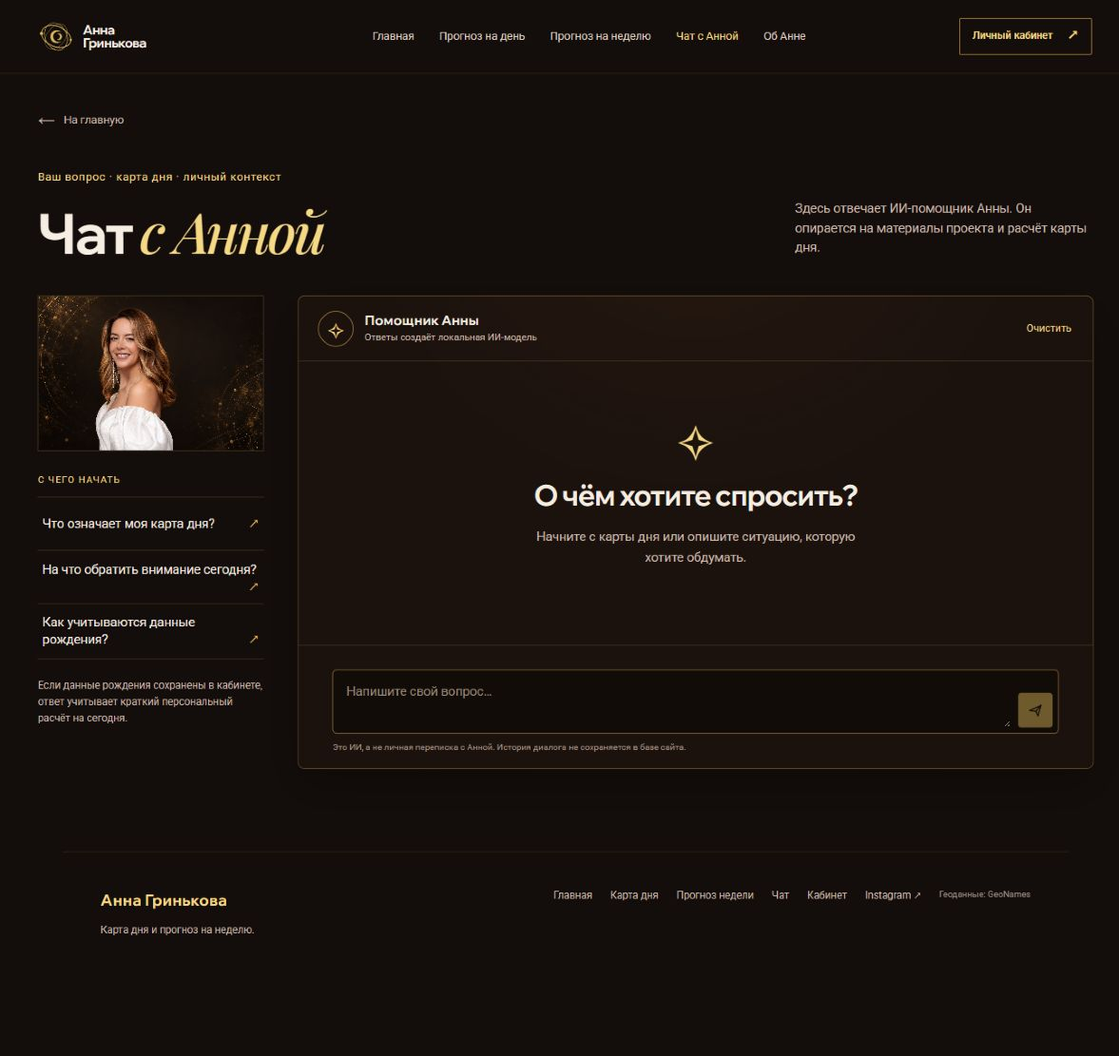
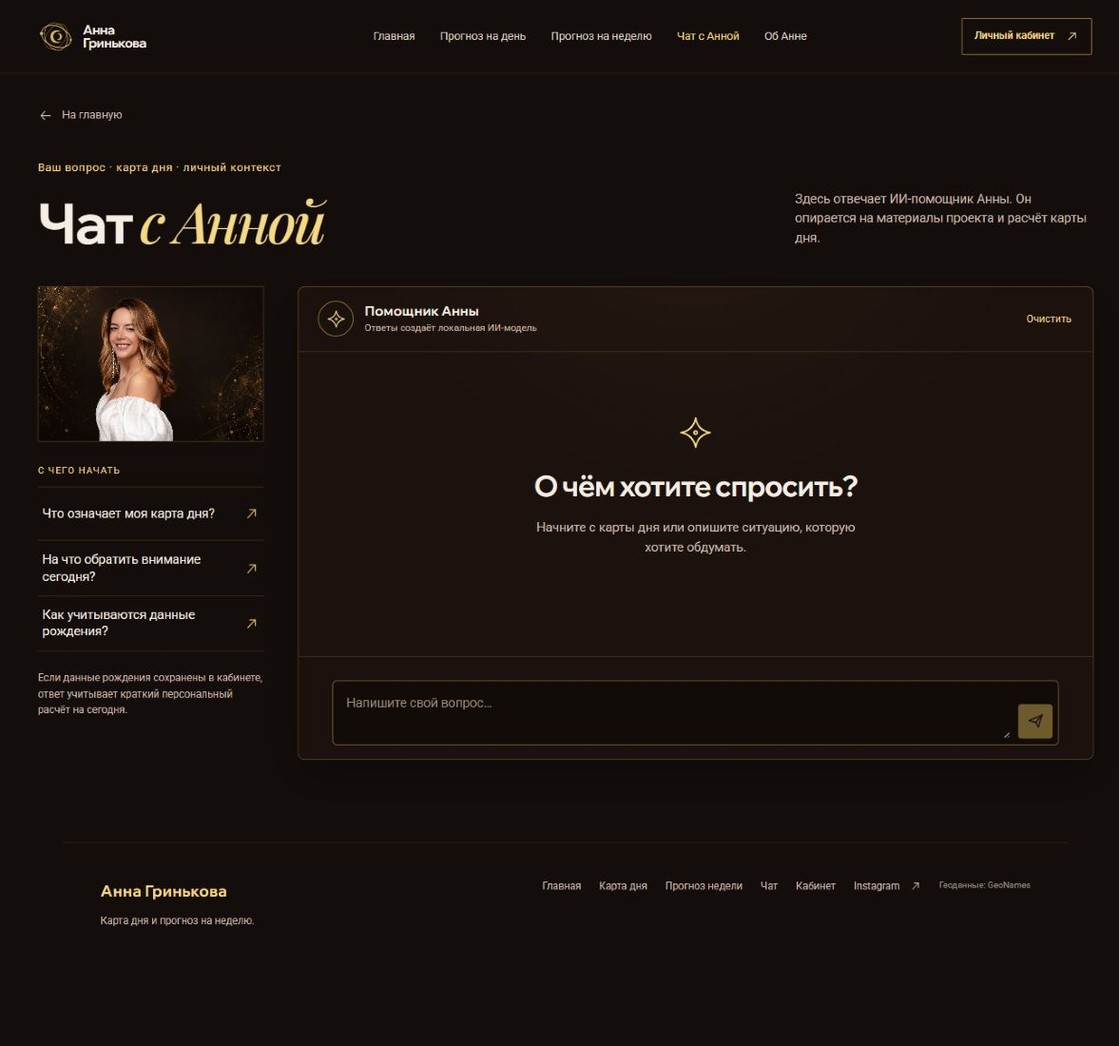
Polish chat card animation and site iconography

diff --git a/prototype/index.html b/prototype/index.html
@@ -12,11 +12,12 @@
     <link rel="stylesheet" href="./styles.css" />
     <link rel="stylesheet" href="./motion-layout.css?v=1" />
     <link rel="stylesheet" href="./birth-time.css?v=1" />
-    <link rel="stylesheet" href="./chat.css?v=3" />
+    <link rel="stylesheet" href="./chat.css?v=6" />
+    <link rel="stylesheet" href="./polish.css?v=4" />
     <script src="./birth-ui.js?v=1" defer></script>
     <script src="./birth-time.js?v=1" defer></script>
     <script src="./app.js?v=13" defer></script>
-    <script src="./chat.js?v=2" defer></script>
+    <script src="./chat.js?v=5" defer></script>
   </head>
   <body>
     <div class="site-shell">
@@ -126,22 +127,22 @@
           <section class="chat-hero section-wrap"><a class="back-link" href="#home"><span aria-hidden="true">←</span> На главную</a><div class="chat-hero-head"><div><p class="forecast-kicker">Ваш вопрос · карта дня · личный контекст</p><h1>Чат <em>с Анной</em></h1></div><p>Здесь отвечает ИИ-помощник Анны. Он опирается на материалы проекта и расчёт карты дня.</p></div></section>
           <section class="chat-layout section-wrap" aria-label="Чат с ИИ-помощником Анны">
             <aside class="chat-aside"><div class="chat-aside-portrait"><img src="./assets/anna-horizontal-branded.jpg" alt="Портрет Анны Гриньковой" /></div><p class="chat-aside-caption">С чего начать</p><div class="chat-prompt-list"><button type="button" data-chat-prompt="Что означает моя карта дня?">Что означает моя карта дня?</button><button type="button" data-chat-prompt="На что обратить внимание сегодня?">На что обратить внимание сегодня?</button><button type="button" data-chat-prompt="Как учитываются данные рождения?">Как учитываются данные рождения?</button></div><p class="chat-aside-note">Если данные рождения сохранены в кабинете, ответ учитывает краткий персональный расчёт на сегодня.</p></aside>
-            <div class="chat-panel"><div class="chat-panel-head"><span class="chat-panel-mark" aria-hidden="true">✧</span><div><strong>Помощник Анны</strong><span>Ответы создаёт локальная ИИ-модель</span></div><button type="button" class="chat-clear" id="chat-clear" aria-label="Очистить диалог">Очистить</button></div><div class="chat-transcript" id="chat-transcript" role="log" aria-label="Сообщения чата" aria-live="polite"><div class="chat-empty" id="chat-empty"><span class="chat-empty-mark" aria-hidden="true">✧</span><h2>О чём хотите спросить?</h2><p>Начните с карты дня или опишите ситуацию, которую хотите обдумать.</p><div class="chat-mobile-prompts"><button type="button" data-chat-prompt="Что означает моя карта дня?">Моя карта дня</button><button type="button" data-chat-prompt="На что обратить внимание сегодня?">Фокус на сегодня</button></div></div></div><div class="chat-composer"><p class="chat-status" id="chat-status" role="status"></p><form id="chat-form"><label class="visually-hidden" for="chat-input">Ваш вопрос</label><textarea id="chat-input" name="message" rows="2" maxlength="600" placeholder="Напишите свой вопрос…" required></textarea><button type="submit" id="chat-send" aria-label="Отправить сообщение"><svg viewBox="0 0 24 24" fill="none" aria-hidden="true"><path d="m4 12 15-7-4 14-3-6-8-1Z"/><path d="m12 13 7-8"/></svg></button><button type="button" id="chat-stop" aria-label="Остановить ответ" hidden>Стоп</button></form><p class="chat-disclosure">Это ИИ, а не личная переписка с Анной. История диалога не сохраняется в базе сайта.</p></div></div>
+            <div class="chat-panel"><div class="chat-panel-head"><span class="chat-panel-mark" aria-hidden="true"><svg class="ui-icon"><use href="./assets/icons.svg#star" /></svg></span><div><strong>Помощник Анны</strong><span>Ответы создаёт локальная ИИ-модель</span></div><button type="button" class="chat-clear" id="chat-clear" aria-label="Очистить диалог">Очистить</button></div><div class="chat-transcript" id="chat-transcript" role="log" aria-label="Сообщения чата" aria-live="polite"><div class="chat-empty" id="chat-empty"><span class="chat-empty-mark" aria-hidden="true"><svg class="ui-icon"><use href="./assets/icons.svg#star" /></svg></span><h2>О чём хотите спросить?</h2><p>Начните с карты дня или опишите ситуацию, которую хотите обдумать.</p><div class="chat-mobile-prompts"><button type="button" data-chat-prompt="Что означает моя карта дня?">Моя карта дня</button><button type="button" data-chat-prompt="На что обратить внимание сегодня?">Фокус на сегодня</button></div></div></div><div class="chat-composer"><p class="chat-status" id="chat-status" role="status"></p><form id="chat-form"><label class="visually-hidden" for="chat-input">Ваш вопрос</label><textarea id="chat-input" name="message" rows="2" maxlength="600" placeholder="Напишите свой вопрос…" required></textarea><button type="submit" id="chat-send" aria-label="Отправить сообщение"><svg class="ui-icon" aria-hidden="true"><use href="./assets/icons.svg#send" /></svg></button><button type="button" id="chat-stop" aria-label="Остановить ответ" hidden>Стоп</button></form></div></div>
           </section>
         </div>
         <div class="route" id="route-account" data-page="account" hidden>
           <section class="simple-hero section-wrap"><p class="forecast-kicker">Личный кабинет</p><h1>Ваше <em>пространство</em></h1><p>Сохраните данные рождения и управляйте безопасностью аккаунта.</p></section>
           <section class="account-layout section-wrap" aria-label="Данные личного кабинета">
             <div class="account-card"><span class="subtle-tag">Профиль</span><h2 id="account-heading">Войдите в кабинет</h2><p id="account-email">Создайте аккаунт, чтобы подготовить профиль для персонального прогноза.</p><div class="account-actions"><button class="button button-gold" type="button" id="account-login" data-open-signup>Войти или создать аккаунт <span aria-hidden="true">↗</span></button><button class="quiet-button" type="button" id="account-logout" hidden>Выйти</button></div></div>
-            <div class="account-card"><span class="subtle-tag">Безопасность</span><h2>Пароль и почта</h2><p id="email-status">Войдите, чтобы управлять аккаунтом.</p><button class="quiet-button" type="button" id="account-change-password" hidden>Сменить пароль ↗</button><button class="quiet-button" type="button" id="account-verify-email" hidden>Подтвердить почту ↗</button><p class="form-status" id="security-message" role="status"></p></div>
+            <div class="account-card"><span class="subtle-tag">Безопасность</span><h2>Пароль и почта</h2><p id="email-status">Войдите, чтобы управлять аккаунтом.</p><button class="quiet-button" type="button" id="account-change-password" hidden>Сменить пароль</button><button class="quiet-button" type="button" id="account-verify-email" hidden>Подтвердить почту</button><p class="form-status" id="security-message" role="status"></p></div>
             <div class="account-card birth-card" id="birth-card" hidden><span class="subtle-tag">Для персонального расчёта</span><h2>Данные рождения</h2><p>Укажите дату, точное местное время и город рождения. Эти данные доступны только в вашем кабинете.</p><form id="birth-form" class="birth-form"><div class="birth-field birth-date-field"><label for="birth-date-display">Дата рождения</label><div class="birth-date-control"><input type="text" id="birth-date-display" inputmode="numeric" autocomplete="bday" maxlength="10" placeholder="ДД.ММ.ГГГГ" aria-controls="birth-calendar" aria-expanded="false" required /><button type="button" id="birth-date-toggle" class="birth-date-toggle" aria-label="Выбрать дату рождения" aria-controls="birth-calendar" aria-expanded="false"><svg viewBox="0 0 24 24" fill="none" aria-hidden="true"><rect x="3" y="5" width="18" height="16" rx="2"/><path d="M7 3v4M17 3v4M3 10h18"/></svg></button></div><input type="hidden" name="birthDate" id="birth-date-value" /><div class="birth-calendar" id="birth-calendar" role="group" aria-label="Календарь даты рождения" hidden><div class="birth-calendar-heading"><span>Дата рождения</span><button type="button" id="birth-calendar-close" aria-label="Закрыть календарь">×</button></div><div class="birth-calendar-controls"><button type="button" id="birth-calendar-prev" aria-label="Предыдущий месяц">‹</button><select id="birth-calendar-month" aria-label="Месяц рождения"></select><select id="birth-calendar-year" aria-label="Год рождения"></select><button type="button" id="birth-calendar-next" aria-label="Следующий месяц">›</button></div><div class="birth-calendar-weekdays" aria-hidden="true"><span>Пн</span><span>Вт</span><span>Ср</span><span>Чт</span><span>Пт</span><span>Сб</span><span>Вс</span></div><div class="birth-calendar-days" id="birth-calendar-days" role="grid" aria-label="Дни месяца"></div><p class="birth-calendar-hint">Выберите день или введите дату вручную.</p></div></div><div class="birth-field birth-time-field"><label for="birth-time-display">Время рождения</label><div class="birth-time-control"><input type="text" id="birth-time-display" inputmode="numeric" autocomplete="off" maxlength="5" placeholder="ЧЧ:ММ" aria-controls="birth-time-picker" aria-expanded="false" required /><button type="button" id="birth-time-toggle" class="birth-time-toggle" aria-label="Выбрать время рождения" aria-controls="birth-time-picker" aria-expanded="false"><svg viewBox="0 0 24 24" fill="none" aria-hidden="true"><circle cx="12" cy="12" r="9"/><path d="M12 7v5l3 2"/></svg></button></div><input type="hidden" name="birthTime" id="birth-time-value" /><div class="birth-time-picker" id="birth-time-picker" role="group" aria-label="Выбор времени рождения" hidden><div class="birth-time-heading"><span>Время рождения</span><button type="button" id="birth-time-close" aria-label="Закрыть выбор времени">×</button></div><div class="birth-time-columns"><div class="birth-time-column"><span id="birth-time-hours-label">Часы</span><div class="birth-time-list" id="birth-time-hours" role="listbox" aria-labelledby="birth-time-hours-label"></div></div><div class="birth-time-column"><span id="birth-time-minutes-label">Минуты</span><div class="birth-time-list" id="birth-time-minutes" role="listbox" aria-labelledby="birth-time-minutes-label"></div></div></div><button type="button" id="birth-time-confirm" class="birth-time-confirm" disabled>Выбрать время</button><p class="birth-time-hint">Укажите местное время рождения.</p></div></div><div class="birth-field city-field"><label for="birth-place">Город рождения</label><input type="text" name="birthPlace" id="birth-place" role="combobox" aria-autocomplete="list" aria-controls="city-suggestions" aria-expanded="false" autocomplete="off" maxlength="120" placeholder="Начните вводить город" required /><div id="city-suggestions" class="city-suggestions" role="listbox" aria-label="Подсказки городов" hidden></div></div><input type="hidden" name="birthCityId" id="birth-city-id" /><details class="birth-manual"><summary>Моего города нет в списке</summary><p>Укажите координаты и часовой пояс IANA. Для редкого часа перевода часов может понадобиться смещение UTC в минутах.</p><label>Широта<input type="number" name="birthLatitude" min="-90" max="90" step="any" placeholder="55.75" /></label><label>Долгота<input type="number" name="birthLongitude" min="-180" max="180" step="any" placeholder="37.62" /></label><label>Часовой пояс<input type="text" name="birthTimeZone" placeholder="Europe/Moscow" /></label><label>Смещение UTC, минуты<input type="number" name="birthUtcOffsetMinutes" min="-840" max="840" placeholder="Только при переводе часов" /></label></details><button class="button button-gold" type="submit">Сохранить <span aria-hidden="true">↗</span></button></form><p class="form-status" id="birth-message" role="status"></p></div>
           </section>
         </div>
       </main>
 
-      <footer class="site-footer section-wrap"><div><span class="footer-brand">Анна Гринькова</span><p>Карта дня и прогноз на неделю.</p></div><div class="footer-links"><a href="#home">Главная</a><a href="#day">Карта дня</a><a href="#week">Прогноз недели</a><a href="#chat">Чат</a><a href="#account">Кабинет</a><a href="https://www.instagram.com/anna__grinkova" target="_blank" rel="noopener noreferrer">Instagram ↗</a><a class="footer-data-credit" href="https://www.geonames.org/" target="_blank" rel="noopener noreferrer" aria-label="Географические данные: GeoNames">Геоданные: GeoNames</a></div></footer>
+      <footer class="site-footer section-wrap"><div><span class="footer-brand">Анна Гринькова</span><p>Карта дня и прогноз на неделю.</p></div><div class="footer-links"><a href="#home">Главная</a><a href="#day">Карта дня</a><a href="#week">Прогноз недели</a><a href="#chat">Чат</a><a href="#account">Кабинет</a><a href="https://www.instagram.com/anna__grinkova" target="_blank" rel="noopener noreferrer">Instagram</a><a class="footer-data-credit" href="https://www.geonames.org/" target="_blank" rel="noopener noreferrer" aria-label="Географические данные: GeoNames">Геоданные: GeoNames</a></div></footer>
 
-      <nav class="mobile-nav" aria-label="Мобильная навигация"><a href="#home" data-mobile-nav="home"><svg viewBox="0 0 24 24" fill="none" aria-hidden="true"><path d="m3 10 9-7 9 7v10H3V10Z"/><path d="M9 20v-6h6v6"/></svg><span>Главная</span></a><a href="#day" data-mobile-nav="day"><svg viewBox="0 0 24 24" fill="none" aria-hidden="true"><circle cx="12" cy="12" r="8"/><path d="M12 7v5l3 2"/></svg><span>День</span></a><a href="#week" data-mobile-nav="week"><svg viewBox="0 0 24 24" fill="none" aria-hidden="true"><rect x="3" y="5" width="18" height="16" rx="2"/><path d="M7 3v4M17 3v4M3 10h18"/></svg><span>Неделя</span></a><a href="#chat" data-mobile-nav="chat"><svg viewBox="0 0 24 24" fill="none" aria-hidden="true"><path d="M4 5h16v12H9l-5 4V5Z"/><path d="M8 10h8M8 13h5"/></svg><span>Чат</span></a><a href="#account" data-mobile-nav="account"><svg viewBox="0 0 24 24" fill="none" aria-hidden="true"><circle cx="12" cy="8" r="4"/><path d="M4 21c0-5 3-7 8-7s8 2 8 7"/></svg><span>Кабинет</span></a></nav>
+      <nav class="mobile-nav" aria-label="Мобильная навигация"><a href="#home" data-mobile-nav="home"><svg class="ui-icon" aria-hidden="true"><use href="./assets/icons.svg#home" /></svg><span>Главная</span></a><a href="#day" data-mobile-nav="day"><svg class="ui-icon" aria-hidden="true"><use href="./assets/icons.svg#day" /></svg><span>День</span></a><a href="#week" data-mobile-nav="week"><svg class="ui-icon" aria-hidden="true"><use href="./assets/icons.svg#week" /></svg><span>Неделя</span></a><a href="#chat" data-mobile-nav="chat"><svg class="ui-icon" aria-hidden="true"><use href="./assets/icons.svg#chat" /></svg><span>Чат</span></a><a href="#account" data-mobile-nav="account"><svg class="ui-icon" aria-hidden="true"><use href="./assets/icons.svg#user" /></svg><span>Кабинет</span></a></nav>
     </div>
 
     <div class="dialog-backdrop" id="signup-dialog" hidden><section class="signup-dialog" role="dialog" aria-modal="true" aria-labelledby="signup-title"><button class="dialog-close" type="button" data-close-signup aria-label="Закрыть окно">×</button><p class="dialog-overline">Личный кабинет</p><h2 id="signup-title">Войти в кабинет</h2><p id="auth-description">Введите email и пароль.</p><form id="signup-form"><div class="auth-field" id="email-field"><label for="signup-email">Ваш email</label><input id="signup-email" name="email" type="email" autocomplete="email" placeholder="name@example.com" required /></div><div class="auth-field" id="password-field"><label for="signup-password">Пароль</label><div class="password-control"><input id="signup-password" name="password" type="password" autocomplete="current-password" maxlength="128" required /><button class="password-toggle" type="button" data-toggle-password="signup-password" aria-label="Показать пароль" aria-pressed="false"><svg viewBox="0 0 24 24" aria-hidden="true"><path d="M2 12s3.5-6 10-6 10 6 10 6-3.5 6-10 6S2 12 2 12Z"/><circle cx="12" cy="12" r="3"/></svg></button></div><ul class="password-rules" id="password-rules" aria-label="Требования к паролю" hidden><li data-password-rule="length">Не менее 8 символов</li><li data-password-rule="uppercase">Заглавная буква</li><li data-password-rule="digit">Цифра</li><li data-password-rule="special">Спецсимвол</li></ul></div><div class="auth-field" id="confirm-field" hidden><label for="signup-confirm">Подтвердите пароль</label><div class="password-control"><input id="signup-confirm" name="confirmPassword" type="password" autocomplete="new-password" minlength="8" maxlength="128" /><button class="password-toggle" type="button" data-toggle-password="signup-confirm" aria-label="Показать подтверждение пароля" aria-pressed="false"><svg viewBox="0 0 24 24" aria-hidden="true"><path d="M2 12s3.5-6 10-6 10 6 10 6-3.5 6-10 6S2 12 2 12Z"/><circle cx="12" cy="12" r="3"/></svg></button></div></div><div class="auth-field" id="code-field" hidden><label for="signup-code">Код из письма</label><input id="signup-code" name="code" type="text" inputmode="numeric" autocomplete="one-time-code" pattern="[0-9]{6}" maxlength="6" placeholder="000000" /></div><button class="button button-gold" id="auth-submit" type="submit">Войти <span aria-hidden="true">↗</span></button></form><div class="auth-links"><button class="auth-switch" id="auth-switch" type="button">Создать аккаунт</button><button class="auth-switch" id="auth-forgot" type="button">Забыли пароль?</button><button class="auth-switch" id="auth-resend" type="button" hidden>Отправить код снова</button></div><p class="form-status" id="form-message" role="status"></p></section></div>

diff --git a/prototype/polish.css b/prototype/polish.css
@@ -1,0 +1,99 @@
+/* One engraved line language for navigation, actions and card marks. */
+.ui-icon { display: inline-block; width: 21px; height: 21px; flex: none; fill: none; stroke: currentColor; stroke-width: 1.55; stroke-linecap: round; stroke-linejoin: round; }
+.mobile-nav .ui-icon { width: 24px; height: 24px; stroke-width: 1.5; }
+.mobile-nav a { min-width: 0; }
+.mobile-nav a[aria-current="page"] .ui-icon { filter: drop-shadow(0 0 6px rgba(245,217,133,.35)); }
+.chat-panel-mark .ui-icon { width: 26px; height: 26px; stroke-width: 1.25; }
+.chat-empty-mark .ui-icon { width: 47px; height: 47px; stroke-width: 1.1; }
+#chat-send .ui-icon { width: 23px; height: 23px; stroke-width: 1.6; }
+
+.button > span[aria-hidden="true"],
+.header-entry > span[aria-hidden="true"],
+.text-link > span[aria-hidden="true"],
+.inline-action > span[aria-hidden="true"],
+.week-feature-cta > span[aria-hidden="true"],
+.chat-invite-action > span[aria-hidden="true"] { display: none; }
+.button::after,
+.header-entry::after,
+.text-link::after,
+.inline-action::after,
+.week-feature-cta::after,
+.chat-invite-action::after,
+.chat-prompt-list button::after,
+.week-arrow::after,
+.back-link::before {
+  content: "";
+  display: inline-block;
+  width: 18px;
+  height: 18px;
+  flex: none;
+  background: currentColor;
+  -webkit-mask: url('./assets/icon-arrow-up-right.svg') center / contain no-repeat;
+  mask: url('./assets/icon-arrow-up-right.svg') center / contain no-repeat;
+}
+.header-entry { display: inline-flex; align-items: center; gap: 14px; }
+.header-entry::after { width: 16px; height: 16px; }
+@media (max-width: 980px) { .header-entry { display: none; } }
+.text-link,.inline-action { display: inline-flex; align-items: center; gap: 10px; }
+.text-link::after,.inline-action::after { width: 16px; height: 16px; }
+.week-feature-cta { align-items: center; }
+.week-arrow { font-size: 0; }
+.week-arrow::after { width: 27px; height: 27px; }
+.chat-invite-action { display: inline-flex; gap: 10px; align-items: center; }
+.chat-invite-action::after { width: 16px; height: 16px; }
+.chat-prompt-list button { display: flex; align-items: center; justify-content: space-between; gap: 15px; }
+.chat-prompt-list button::after { float: none; width: 19px; height: 19px; font-size: 0; }
+.back-link { gap: 11px; }
+.back-link > span[aria-hidden="true"] { display: none; }
+.back-link::before { width: 20px; height: 20px; -webkit-mask-image: url('./assets/icon-arrow-left.svg'); mask-image: url('./assets/icon-arrow-left.svg'); }
+.footer-links a[href*="instagram.com"] { display: inline-flex; align-items: center; gap: 4px; }
+.footer-links a[href*="instagram.com"]::after,
+#account-change-password::after,
+#account-verify-email::after { content: ""; display: inline-block; width: 15px; height: 15px; margin-left: 8px; vertical-align: -2px; background: currentColor; -webkit-mask: url('./assets/icon-arrow-up-right.svg') center / contain no-repeat; mask: url('./assets/icon-arrow-up-right.svg') center / contain no-repeat; }
+.dialog-close,.birth-calendar-heading button,.birth-time-heading button { display: grid; place-items: center; width: 36px; height: 36px; padding: 0; font-size: 0 !important; }
+.dialog-close::before,.birth-calendar-heading button::before,.birth-time-heading button::before { content: ""; display: block; width: 19px; height: 19px; background: currentColor; -webkit-mask: url('./assets/icon-close.svg') center / contain no-repeat; mask: url('./assets/icon-close.svg') center / contain no-repeat; }
+.birth-calendar-controls > button { display: grid; place-items: center; font-size: 0 !important; }
+.birth-calendar-controls > button::before { content: ""; display: block; width: 18px; height: 18px; background: currentColor; -webkit-mask: url('./assets/icon-chevron-left.svg') center / contain no-repeat; mask: url('./assets/icon-chevron-left.svg') center / contain no-repeat; }
+#birth-calendar-next::before { -webkit-mask-image: url('./assets/icon-chevron-right.svg'); mask-image: url('./assets/icon-chevron-right.svg'); }
+
+.draw-card-star,.draw-card-mark,.mini-card-art { font-size: 0; }
+.draw-card-star::before,.draw-card-mark::before,.mini-card-art::before {
+  content: "";
+  display: block;
+  width: 100%;
+  height: 100%;
+  background: currentColor;
+  -webkit-mask: url('./assets/icon-star.svg') center / contain no-repeat;
+  mask: url('./assets/icon-star.svg') center / contain no-repeat;
+}
+.draw-card-star { width: 16px; height: 16px; }
+.draw-card-mark { display: block; width: 74px; height: 74px; }
+.mini-card-art { display: grid; place-items: center; }
+.mini-card-art::before { width: 70%; height: 70%; }
+.birth-date-toggle svg,.birth-time-toggle svg,.password-toggle svg { stroke-linecap: round; stroke-linejoin: round; }
+
+/* Align cards and calls to action to the same mobile inset. */
+.account-card { min-width: 0; }
+@media (max-width: 760px) {
+  .site-header { padding-inline: 20px; }
+  .account-layout { min-width: 0; }
+  .account-card { width: 100%; padding: 26px 22px; }
+  .account-card h2 { overflow-wrap: anywhere; }
+  .account-actions { min-width: 0; }
+  .account-actions .button { width: 100%; min-width: 0; white-space: normal; text-align: left; gap: 14px; }
+  .account-actions .button::after { margin-left: auto; }
+  .birth-form { min-width: 0; }
+  .chat-invite { align-items: center; }
+  .chat-invite-copy { min-width: 0; }
+  .chat-invite-copy strong { line-height: 1.16; }
+}
+@media (max-width: 370px) {
+  .simple-hero h1 { font-size: clamp(37px, 11vw, 43px); }
+  .chat-transcript { overflow-x: hidden; }
+  .chat-message-thinking { max-width: 100%; }
+  .chat-thinking-stage { flex-direction: column; align-items: flex-start; gap: 0; }
+  .chat-thinking-cards { transform: scale(.75); transform-origin: left top; width: 148px; height: 64px; }
+  .chat-thinking-line { font-size: 14px; white-space: normal; }
+  .mobile-nav { padding-inline: 4px; }
+  .mobile-nav a { font-size: 9px; }
+}

diff --git a/prototype/chat.js b/prototype/chat.js
@@ -12,6 +12,15 @@ let chatRequest = 0;
 let chatSlowTimer;
 
 function scrollChatToEnd() { chatTranscript.scrollTop = chatTranscript.scrollHeight; }
+function chatIcon(name) {
+  const svg = document.createElementNS('http://www.w3.org/2000/svg', 'svg');
+  svg.classList.add('ui-icon');
+  svg.setAttribute('aria-hidden', 'true');
+  const use = document.createElementNS('http://www.w3.org/2000/svg', 'use');
+  use.setAttribute('href', `./assets/icons.svg#${name}`);
+  svg.append(use);
+  return svg;
+}
 
 function chatMessage(role, content, context = null) {
   const article = document.createElement('article');
@@ -28,10 +37,12 @@ function chatMessage(role, content, context = null) {
     actions.className = 'chat-message-actions';
     const copy = document.createElement('button');
     copy.type = 'button';
-    copy.textContent = 'Скопировать';
+    const copyLabel = document.createElement('span');
+    copyLabel.textContent = 'Скопировать';
+    copy.append(chatIcon('copy'), copyLabel);
     copy.addEventListener('click', async () => {
-      try { await navigator.clipboard.writeText(content); copy.textContent = 'Скопировано'; }
-      catch { copy.textContent = 'Не удалось скопировать'; }
+      try { await navigator.clipboard.writeText(content); copyLabel.textContent = 'Скопировано'; }
+      catch { copyLabel.textContent = 'Не удалось скопировать'; }
     });
     actions.append(copy);
     if (context) {
@@ -49,11 +60,34 @@ function chatMessage(role, content, context = null) {
 
 function thinkingMessage() {
   const article = chatMessage('assistant', '');
+  article.classList.add('chat-message-thinking');
+  const stage = document.createElement('div');
+  stage.className = 'chat-thinking-stage';
+  stage.setAttribute('role', 'status');
+  stage.setAttribute('aria-label', 'Помощник печатает, карты перебираются');
+  const cards = document.createElement('span');
+  cards.className = 'chat-thinking-cards';
+  cards.setAttribute('aria-hidden', 'true');
+  for (let index = 0; index < 5; index += 1) {
+    const card = document.createElement('i');
+    const star = document.createElementNS('http://www.w3.org/2000/svg', 'svg');
+    star.setAttribute('viewBox', '0 0 24 24');
+    const mark = document.createElementNS('http://www.w3.org/2000/svg', 'use');
+    mark.setAttribute('href', './assets/icons.svg#star');
+    star.append(mark);
+    card.append(star);
+    cards.append(card);
+  }
+  const line = document.createElement('span');
+  line.className = 'chat-thinking-line';
+  line.textContent = 'Помощник печатает';
   const dots = document.createElement('span');
   dots.className = 'chat-thinking-dots';
-  dots.setAttribute('aria-label', 'Готовим ответ');
-  dots.innerHTML = '<i></i><i></i><i></i>';
-  article.querySelector('p').replaceWith(dots);
+  dots.setAttribute('aria-hidden', 'true');
+  for (let index = 0; index < 3; index += 1) dots.append(document.createElement('i'));
+  line.append(dots);
+  stage.append(cards, line);
+  article.querySelector('p').replaceWith(stage);
   return article;
 }
 
@@ -64,6 +98,7 @@ async function sendChat(message, existingUserMessage = false) {
   const text = message.trim();
   if (!text || text.length > 600) return;
   const request = ++chatRequest;
+  const started = performance.now();
   chatEmpty.hidden = true;
   if (!existingUserMessage) chatMessage('user', text);
   chatInput.value = '';
@@ -71,7 +106,7 @@ async function sendChat(message, existingUserMessage = false) {
   const controller = new AbortController();
   chatAbort = controller;
   chatStop.hidden = false;
-  chatStatus.textContent = 'Готовим ответ…';
+  chatStatus.textContent = '';
   chatSlowTimer = window.setTimeout(() => { if (request === chatRequest) chatStatus.textContent = 'Модель отвечает дольше обычного…'; }, 2500);
   updateChatSend();
   try {
@@ -84,7 +119,10 @@ async function sendChat(message, existingUserMessage = false) {
     });
     const data = await response.json();
     if (!response.ok) throw new Error(data.message || 'Ответ сейчас недоступен.');
+    const remaining = window.matchMedia('(prefers-reduced-motion: reduce)').matches ? 0 : 1100 - (performance.now() - started);
+    if (remaining > 0) await new Promise((resolve) => window.setTimeout(resolve, remaining));
     if (request !== chatRequest) return;
+    if (controller.signal.aborted) throw new DOMException('Ответ остановлен', 'AbortError');
     thinking.remove();
     chatMessage('assistant', data.answer, data.context);
     chatHistory.push({ role: 'user', content: text }, { role: 'assistant', content: data.answer });
@@ -100,6 +138,7 @@ async function sendChat(message, existingUserMessage = false) {
     const retry = document.createElement('button');
     retry.type = 'button';
     retry.textContent = 'Повторить';
+    retry.prepend(chatIcon('refresh'));
     retry.addEventListener('click', () => { card.remove(); sendChat(text, true); });
     actions.append(retry);
     card.append(actions);

diff --git a/prototype/chat.css b/prototype/chat.css
@@ -56,13 +56,25 @@
 .chat-message-label { display: block; margin: 0 0 7px; color: var(--gold-light); font-size: 12px; font-weight: 700; }
 .chat-message p { margin: 0; white-space: pre-wrap; overflow-wrap: anywhere; line-height: 1.6; }
 .chat-message-actions { display: flex; align-items: center; gap: 17px; margin-top: 10px; }
-.chat-message-actions button { padding: 0; border: 0; background: transparent; color: var(--gold-light); font-size: 12px; }
+.chat-message-actions button { display: inline-flex; align-items: center; gap: 6px; padding: 0; border: 0; background: transparent; color: var(--gold-light); font-size: 12px; }
+.chat-message-actions button .ui-icon { width: 15px; height: 15px; }
 .chat-message-actions button:hover { color: #fff; }
 .chat-message-context { color: var(--muted); font-size: 11px; }
-.chat-thinking-dots { display: inline-flex; gap: 5px; padding: 9px 0; }
-.chat-thinking-dots i { width: 6px; height: 6px; border-radius: 50%; background: var(--gold); animation: chat-pulse 1.1s ease-in-out infinite; }
+.chat-thinking-stage { display: flex; align-items: center; gap: 22px; min-height: 96px; }
+.chat-thinking-cards { display: block; position: relative; flex: none; width: 148px; height: 84px; perspective: 500px; }
+.chat-thinking-cards i { position: absolute; top: 9px; left: var(--slot); display: grid; place-items: center; width: 46px; height: 66px; border: 1px solid #c39c4e; border-radius: 4px; background: linear-gradient(150deg, #3b281a, #160e0b 65%, #2d1c13); box-shadow: inset 0 0 0 4px #1c120d, inset 0 0 0 5px rgba(245, 217, 133, .32), 0 8px 16px #0d0806; transform-origin: 50% 82%; animation: chat-card-search 1.8s cubic-bezier(.22, 1, .36, 1) infinite; }
+.chat-thinking-cards i:nth-child(1) { --fan: -10deg; --slot: 0px; animation-delay: -.25s; }
+.chat-thinking-cards i:nth-child(2) { --fan: -5deg; --slot: 24px; animation-delay: -.1s; }
+.chat-thinking-cards i:nth-child(3) { --fan: 0deg; --slot: 48px; animation-delay: .05s; }
+.chat-thinking-cards i:nth-child(4) { --fan: 5deg; --slot: 72px; animation-delay: .2s; }
+.chat-thinking-cards i:nth-child(5) { --fan: 10deg; --slot: 96px; animation-delay: .35s; }
+.chat-thinking-cards svg { width: 21px; height: 21px; fill: none; stroke: #efd281; stroke-width: 1.35; stroke-linejoin: round; }
+.chat-thinking-line { display: inline-flex; align-items: baseline; gap: 7px; color: var(--gold-light); font-family: var(--accent); font-size: 18px; font-style: italic; white-space: nowrap; }
+.chat-thinking-dots { display: inline-flex; gap: 4px; }
+.chat-thinking-dots i { width: 4px; height: 4px; border-radius: 50%; background: var(--gold); animation: chat-pulse 1.1s ease-in-out infinite; }
 .chat-thinking-dots i:nth-child(2) { animation-delay: .14s; }
 .chat-thinking-dots i:nth-child(3) { animation-delay: .28s; }
+@keyframes chat-card-search { 0%, 100% { opacity: .75; transform: rotate(var(--fan)) rotateY(0deg); } 46% { opacity: 1; transform: translateY(-12px) rotate(0deg) rotateY(88deg); } 58% { opacity: 1; transform: translateY(-12px) rotate(0deg) rotateY(0deg); } 75% { opacity: .9; transform: rotate(var(--fan)); } }
 @keyframes chat-pulse { 50% { opacity: .25; transform: translateY(-3px); } }
 .chat-error { color: #efc5a1; }
 .chat-composer { padding: 0 clamp(20px, 3vw, 43px) 18px; background: #1b120e; border-top: 1px solid rgba(222, 184, 88, .18); }
@@ -77,7 +89,6 @@
 #chat-send:disabled { opacity: .45; cursor: default; }
 #chat-stop { flex: none; min-width: 54px; height: 44px; border: 1px solid var(--gold); border-radius: 4px; background: transparent; color: var(--gold-light); font-size: 13px; }
 #chat-stop[hidden] { display: none; }
-.chat-disclosure { margin: 10px 0 0; color: #aa9989; font-size: 11px; line-height: 1.45; }
 .mobile-nav { grid-template-columns: repeat(5, minmax(0, 1fr)); }
 
 @media (max-width: 900px) {
@@ -108,6 +119,9 @@
   .chat-mobile-prompts { display: flex; flex-wrap: wrap; justify-content: center; gap: 8px; margin-top: 25px; }
   .chat-mobile-prompts button { min-height: 39px; padding: 0 11px; border: 1px solid rgba(222, 184, 88, .5); border-radius: 3px; background: transparent; color: var(--gold-light); font-size: 12px; }
   .chat-message { max-width: 89%; font-size: 14px; }
+  .chat-thinking-stage { gap: 8px; min-height: 86px; }
+  .chat-thinking-cards { transform: scale(.79); transform-origin: left center; width: 115px; }
+  .chat-thinking-line { font-size: 16px; }
   .chat-composer { padding: 0 13px 13px; }
   .mobile-nav { grid-template-columns: repeat(5, minmax(0, 1fr)); }
   .mobile-nav a { min-width: 0; font-size: 10px; }
@@ -116,4 +130,4 @@
   .chat-panel-head div span { max-width: 160px; line-height: 1.2; }
   .chat-invite-copy strong { font-size: 18px; }
 }
-@media (prefers-reduced-motion: reduce) { .chat-thinking-dots i { animation: none; } }
+@media (prefers-reduced-motion: reduce) { .chat-thinking-dots i, .chat-thinking-cards i { animation: none; } .chat-thinking-cards i { transform: rotate(var(--fan)); } }

diff --git a/design/render_icon_board.py b/design/render_icon_board.py
@@ -1,0 +1,73 @@
+"""Render a contact sheet for the hand-drawn site icon family."""
+
+from copy import deepcopy
+from pathlib import Path
+from xml.etree import ElementTree as ET
+
+import cairosvg
+
+
+ROOT = Path(__file__).resolve().parent.parent
+SPRITE = ROOT / "prototype" / "assets" / "icons.svg"
+OUTPUT = ROOT / "design" / "preview" / "icon-system.png"
+NAMES = [
+    ("home", "Главная"),
+    ("day", "Карта дня"),
+    ("week", "Неделя"),
+    ("chat", "Чат"),
+    ("user", "Профиль"),
+    ("calendar", "Календарь"),
+    ("clock", "Время"),
+    ("send", "Отправить"),
+    ("star", "Знак карты"),
+    ("eye", "Показать"),
+    ("copy", "Копировать"),
+    ("refresh", "Повторить"),
+]
+
+
+def unnamespace(element):
+    element.tag = element.tag.rsplit("}", 1)[-1]
+    for child in element:
+        unnamespace(child)
+    return element
+
+
+symbols = {
+    symbol.get("id"): "".join(
+        ET.tostring(unnamespace(deepcopy(child)), encoding="unicode")
+        for child in symbol
+    )
+    for symbol in ET.parse(SPRITE).getroot()
+}
+
+pieces = [
+    '<svg xmlns="http://www.w3.org/2000/svg" width="1200" height="820" viewBox="0 0 1200 820">',
+    '<defs><radialGradient id="base" cx="50%" cy="0%" r="95%"><stop stop-color="#302016"/><stop offset="1" stop-color="#130d0b"/></radialGradient></defs>',
+    '<rect width="1200" height="820" fill="url(#base)"/>',
+    '<circle cx="1050" cy="90" r="270" fill="none" stroke="#8a6638" opacity=".28"/>',
+    '<circle cx="1050" cy="90" r="200" fill="none" stroke="#8a6638" opacity=".24"/>',
+    '<text x="45" y="59" fill="#efd281" font-family="Georgia" font-size="16" letter-spacing="4">АННА ГРИНЬКОВА</text>',
+    '<text x="45" y="120" fill="#f6efe7" font-family="Georgia" font-size="47">Латунная орбита</text>',
+    '<text x="47" y="150" fill="#bcaa98" font-family="Arial" font-size="14">Система знаков для сайта</text>',
+    '<line x1="45" y1="171" x2="1155" y2="171" stroke="#987647" opacity=".6"/>',
+]
+
+for index, (name, label) in enumerate(NAMES):
+    col, row = index % 4, index // 4
+    x, y = 45 + col * 285, 194 + row * 195
+    pieces += [
+        f'<rect x="{x}" y="{y}" width="255" height="169" fill="#211610" stroke="#735632" stroke-width="1"/>',
+        f'<circle cx="{x + 127.5}" cy="{y + 69}" r="47" fill="none" stroke="#6f5432" opacity=".7"/>',
+        f'<g transform="translate({x + 89} {y + 31}) scale(3.2)" fill="none" stroke="#e8c574" stroke-width="1.3" stroke-linecap="round" stroke-linejoin="round">{symbols[name]}</g>',
+        f'<text x="{x + 127.5}" y="{y + 142}" text-anchor="middle" fill="#e8d7bf" font-family="Arial" font-size="15">{label}</text>',
+    ]
+
+pieces += [
+    '<line x1="45" y1="786" x2="1155" y2="786" stroke="#987647" opacity=".6"/>',
+    '<text x="45" y="807" fill="#927f6c" font-family="Arial" font-size="10" letter-spacing="2">ENGRAVED ORBITS / ICON STUDY</text>',
+    '</svg>',
+]
+OUTPUT.parent.mkdir(parents=True, exist_ok=True)
+cairosvg.svg2png(bytestring="".join(pieces).encode("utf-8"), write_to=str(OUTPUT))
+print(OUTPUT)

diff --git a/design/icon-philosophy.md b/design/icon-philosophy.md
@@ -1,0 +1,9 @@
+# Латунная орбита
+
+Знаки строятся как гравировка на небольшом астрономическом инструменте. Их основу составляют открытый контур, точный круг и короткий луч. Пространство внутри и вокруг каждого знака столь же важно, как линия: поэтому иконки читаются даже на тёмной панели малого размера. Никаких заливок и случайной декоративной мелочи.
+
+Цвет ограничен тёплой латунью на тёмном коричневом фоне. Линия одинаковой толщины связывает навигацию, действия и карточные символы, а четырёхлучевая звезда повторяется лишь там, где речь идёт о карте и диалоге. Контраст и ритм выверены так, чтобы знак ощущался частью фирменного стиля, а не вставкой из стандартного набора.
+
+В композиции действие выражено направлением: стрелка поднимается вправо, возврат ведёт влево. Дом, календарь, диалог и профиль остаются узнаваемыми с первого взгляда; астрологический мотив встраивается в них одним аккуратным штрихом. Каждый контур должен выглядеть тщательно отрисованным, без шума и ложной сложности.
+
+Вся система рассчитана на повторение в маленьком интерфейсе и на крупное представление как самостоятельная графика. Профессиональность проявляется в согласованности оптических размеров, углов и интервалов. Даже при увеличении знак должен сохранять ощущение ручной, внимательной работы.
